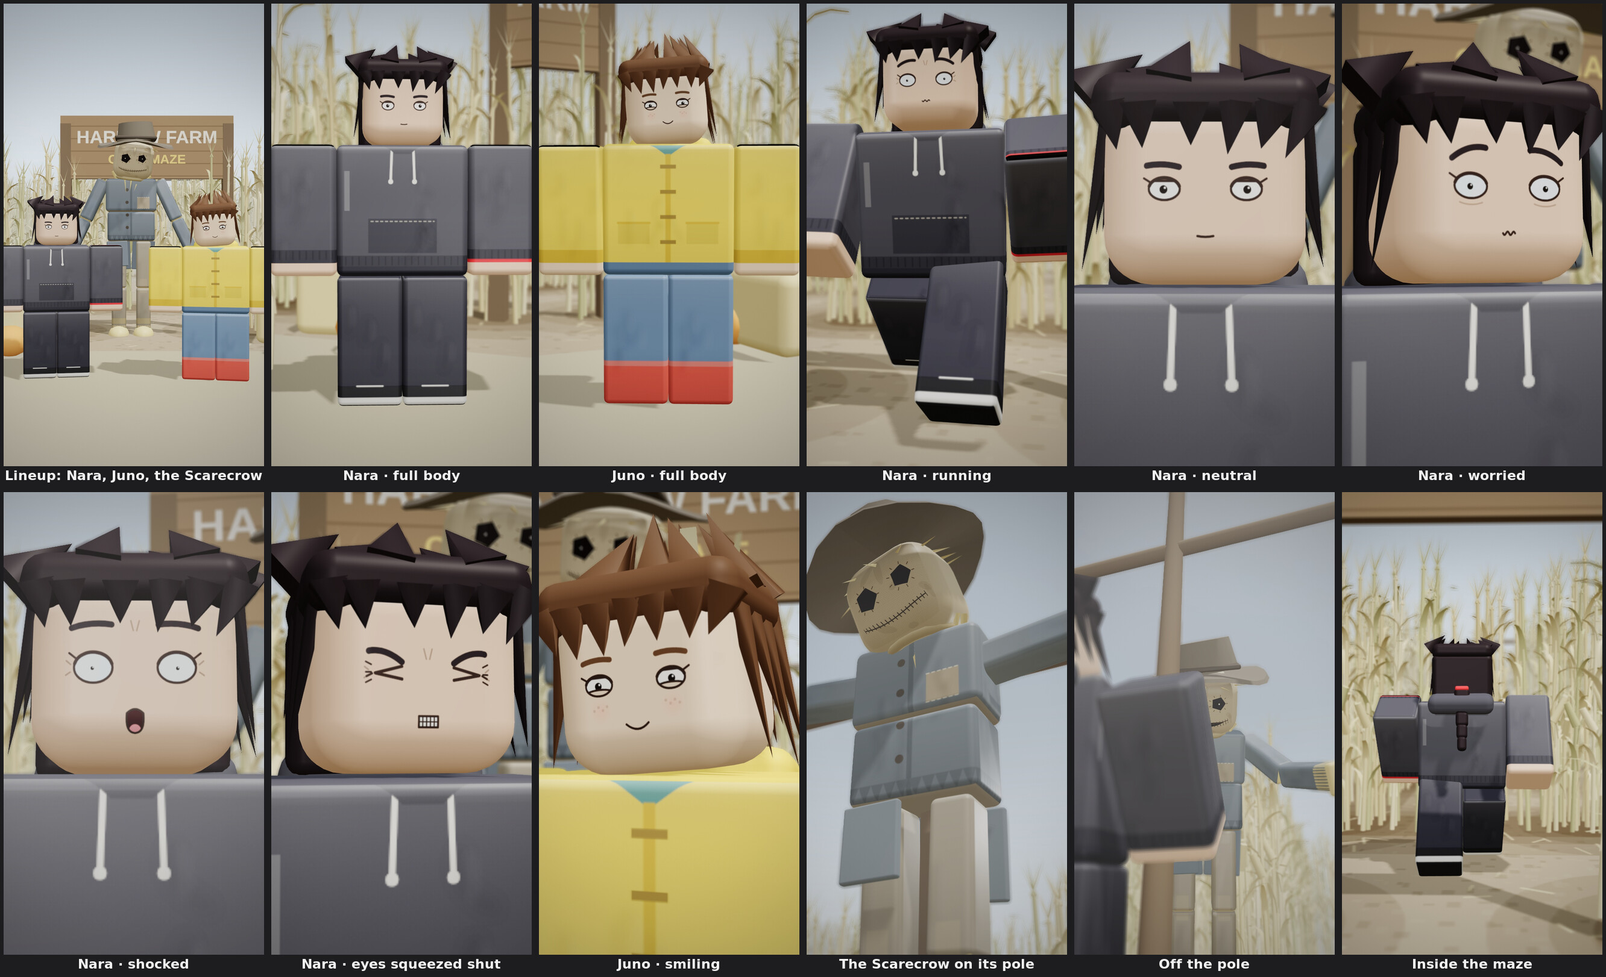
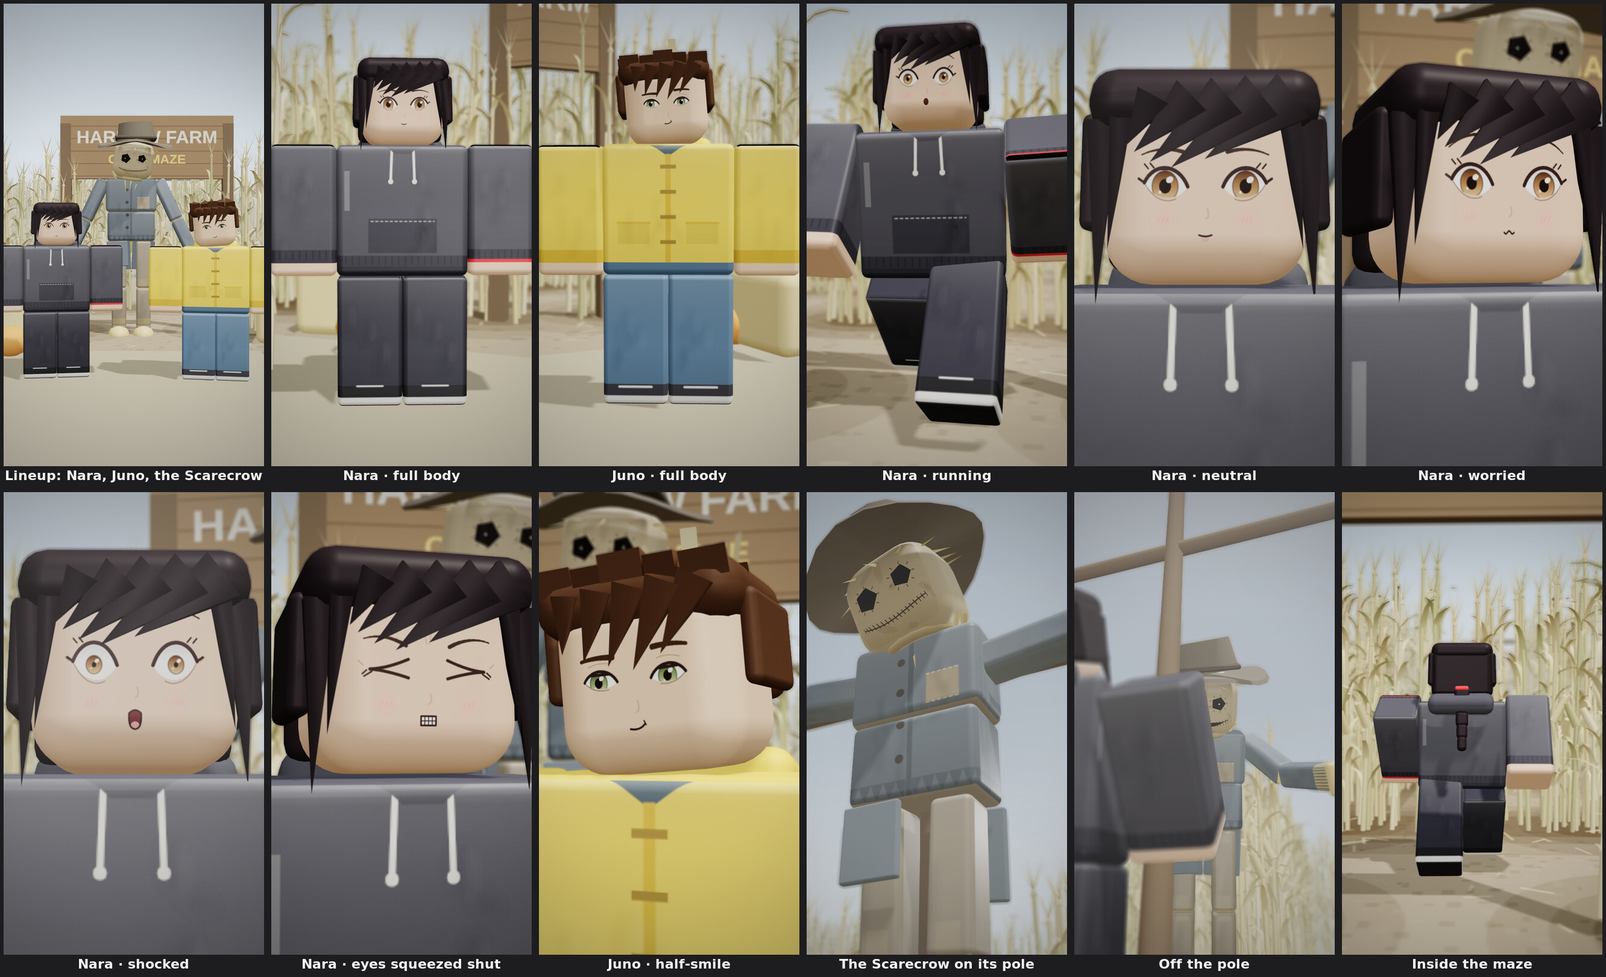
The Corn Maze: beautiful face for Nara, Juno is now a boy with a handsome face; new hairstyles
Claude-Session: https://claude.ai/code/session_01Uppwa9cCUuZ5j34nber2RV

diff --git a/midnight-sea/characters.js b/midnight-sea/characters.js
@@ -81,8 +81,8 @@
   function faceTexture(st, expr, blink, open, table) {
     const key = `${st.id}|${expr}|${blink ? 1 : 0}|${open ? 1 : 0}`;
     if (faceCache[key]) return faceCache[key];
-    const E = st.comic ? (COMIC[expr] || COMIC.neutral) : (table || EXPR)[expr] || EXPR.neutral;
-    const tex = RT.canvasTexture(FW, FH, (g) => st.draw ? st.draw(g, expr, blink, open) : st.comic ? drawComicFace(g, st, E, blink, open) : drawFace(g, st, E, blink, open));
+    const E = st.pretty ? (PRETTY[expr] || PRETTY.neutral) : st.comic ? (COMIC[expr] || COMIC.neutral) : (table || EXPR)[expr] || EXPR.neutral;
+    const tex = RT.canvasTexture(FW, FH, (g) => st.draw ? st.draw(g, expr, blink, open) : st.pretty ? drawPrettyFace(g, st, E, blink, open) : st.comic ? drawComicFace(g, st, E, blink, open) : drawFace(g, st, E, blink, open));
     return (faceCache[key] = tex);
   }
 
@@ -161,6 +161,127 @@
     sideEye:     { ew: 1.1, eh: 0.86, pupil: 0.7, lid: 0.12, brow: -10, browTilt: -0.3, mouth: 'wavy', mw: 30, look: [-18, 2], sclera: '#d9e9f6' },
     smirk:       { ew: 1.04, eh: 0.76, pupil: 0.95, lid: 0.4, lidTilt: 0.06, low: 0.1, brow: 4, browTilt: 0.1, browAsym: -16, mouth: 'smile', curve: 12, mw: 50 },
   };
+
+  // =================================================================================
+  // PRETTY FACES (faceStyle({ pretty: 'f' | 'm' })): attractive anime-style faces. 'f' (beautiful): big almond eyes,
+  // glossy irises with two highlights, a winged upper lash line and lashes, thin arched brows, a small nose, soft rose
+  // lips, light blush. 'm' (handsome): narrower sharper eyes, no lashes, thicker straighter brows, a confident mouth.
+  //  eh: eye height · iris: iris size · pupil · lid · lidTilt · low (smile squint) · brow (+ lower) · browTilt (+ angry,
+  //  − worried) · browAsym · closed: 'soft' | 'happy' | 'squeeze' · mouth: soft | smile | smirk | line | wavy | o | gasp | grit |
+  //  frown | cry · curve · mw · look [x, y] · tears · dull (lifeless irises) · creases
+  // =================================================================================
+  const PRETTY = {
+    neutral:    { eh: 1, iris: 1, lid: 0.06, mouth: 'soft', curve: 3, mw: 30 },
+    smiling:    { eh: 0.9, iris: 1, lid: 0.04, low: 0.32, brow: -4, mouth: 'smile', curve: 12, mw: 40 },
+    smirk:      { eh: 0.92, iris: 1, lid: 0.2, lidTilt: 0.06, low: 0.1, brow: 2, browAsym: -12, mouth: 'smirk', curve: 10, mw: 40, look: [-4, 0] },
+    determined: { eh: 0.88, iris: 1, lid: 0.26, lidTilt: 0.18, brow: 10, browTilt: 0.34, mouth: 'line', curve: -2, mw: 30 },
+    worried:    { eh: 1.04, iris: 0.92, lid: 0, brow: -12, browTilt: -0.4, mouth: 'wavy', mw: 26 },
+    scared:     { eh: 1.14, iris: 0.76, pupil: 0.8, lid: 0, brow: -18, browTilt: -0.36, mouth: 'o', mw: 24, creases: 1 },
+    shocked:    { eh: 1.24, iris: 0.6, pupil: 0.6, lid: 0, brow: -26, browTilt: -0.12, mouth: 'gasp', mw: 34, creases: 1 },
+    scream:     { eh: 1.26, iris: 0.56, pupil: 0.55, lid: 0, brow: -28, browTilt: -0.2, mouth: 'gasp', mw: 46, creases: 1 },
+    squeeze:    { closed: 'squeeze', brow: 10, browTilt: 0.34, mouth: 'grit', mw: 36, creases: 2 },
+    sad:        { eh: 0.94, iris: 1, lid: 0.24, lidTilt: -0.24, brow: -6, browTilt: -0.42, mouth: 'frown', curve: -9, mw: 28, look: [0, 5] },
+    crying:     { eh: 0.94, iris: 1, lid: 0.26, lidTilt: -0.26, brow: -8, browTilt: -0.46, mouth: 'cry', curve: -10, mw: 34, tears: 1, look: [0, 4] },
+    blank:      { eh: 1.04, iris: 0.9, lid: 0, mouth: 'line', curve: 0, mw: 22, dull: 1 },
+    taken:      { eh: 1.08, iris: 0.86, pupil: 0.3, lid: 0, brow: 2, mouth: 'line', curve: 0, mw: 22, dull: 1 },
+    sideEye:    { eh: 1.02, iris: 0.86, lid: 0.1, brow: -10, browTilt: -0.3, mouth: 'wavy', mw: 24, look: [-16, 2] },
+    unimpressed:{ eh: 0.86, iris: 0.95, lid: 0.45, brow: 6, mouth: 'line', curve: -1, mw: 22, look: [6, 4] },
+    smug:       { eh: 0.9, iris: 1, lid: 0.36, lidTilt: -0.06, low: 0.14, brow: 4, browAsym: -14, mouth: 'smirk', curve: 14, mw: 44 },
+  };
+  function drawPrettyFace(g, st, E, blink, open) {
+    const F = st.pretty === 'f', cx = FW / 2, ink = st.ink || '#1b1210', sz = st.eyeSize || 1;
+    g.lineJoin = 'round'; g.lineCap = 'round';
+    g.fillStyle = st.skin; g.fillRect(0, 0, FW, FH);
+    const ey = 226 + (st.eyeY || 0), sp = (F ? 94 : 92) * (st.eyeSpread || 1);
+    const rx = (F ? 52 : 46) * sz, ry = (F ? 38 : 27) * sz * (E.eh || 1);
+    const lid = RT.clamp((E.lid || 0) + (st.lidBias || 0), 0, 0.85), look = E.look || [0, 0];
+    // blush
+    if (st.blush) for (const s of [-1, 1]) {
+      const bx = cx + s * (sp + 6), by = ey + ry + 40, gr = g.createRadialGradient(bx, by, 2, bx, by, 38);
+      gr.addColorStop(0, 'rgba(255,120,130,0.34)'); gr.addColorStop(1, 'rgba(255,120,130,0)'); g.fillStyle = gr; g.fillRect(bx - 44, by - 30, 88, 60);
+      if (F) { g.strokeStyle = 'rgba(225,95,105,0.45)'; g.lineWidth = 2.5; for (let k = 0; k < 3; k++) { g.beginPath(); g.moveTo(bx - 14 + k * 10, by + 6); g.lineTo(bx - 8 + k * 10, by - 6); g.stroke(); } }
+    }
+    if (st.freckles) { g.fillStyle = RT.shade(st.skin, -0.18); for (const s of [-1, 1]) for (let k = 0; k < 3; k++) { g.beginPath(); g.arc(cx + s * (sp - 12 + k * 12), ey + ry + 30 + (k % 2) * 7, 2.6, 0, Math.PI * 2); g.fill(); } }
+    const lidPath = (x, s, up, dn, tilt) => {         // almond: inner corner → over the top → outer corner → under the bottom
+      const xi = x - s * rx, xo = x + s * rx, yi = ey + 5, yo = ey - (F ? 4 : 1) + tilt;
+      return { xi, xo, yi, yo, top() { g.moveTo(xi, yi); g.bezierCurveTo(x - s * rx * 0.55, ey - ry * up, x + s * rx * 0.55, ey - ry * up, xo, yo); },
+        bot() { g.moveTo(xo, yo); g.bezierCurveTo(x + s * rx * 0.5, ey + ry * dn, x - s * rx * 0.55, ey + ry * dn, xi, yi); } };
+    };
+    for (const s of [-1, 1]) {
+      const x = cx + s * sp, tilt = (E.lidTilt || 0) * -6 * 0;
+      const L = lidPath(x, s, 1.28, F ? 1.05 : 0.95, tilt);
+      if (blink || E.closed) {
+        g.strokeStyle = ink;
+        if (E.closed === 'squeeze') {
+          g.lineWidth = 7; g.beginPath(); g.moveTo(x - s * rx * 0.9, ey - ry * 0.5); g.quadraticCurveTo(x + s * rx * 0.1, ey + 2, x + s * rx * 0.85, ey + 4); g.stroke();
+          g.beginPath(); g.moveTo(x - s * rx * 0.9, ey + ry * 0.55); g.quadraticCurveTo(x + s * rx * 0.1, ey + 6, x + s * rx * 0.85, ey + 4); g.stroke();
+        } else if ((E.low || 0) > 0.2) { g.lineWidth = 7; g.beginPath(); g.moveTo(L.xi, ey + 8); g.quadraticCurveTo(x, ey - 20, L.xo, ey + 6); g.stroke(); }
+        else { g.lineWidth = F ? 8 : 7; g.beginPath(); g.moveTo(L.xi, ey + 4); g.quadraticCurveTo(x, ey + 18, L.xo, ey + 2); g.stroke(); }
+        if (F) { g.lineWidth = 4; for (const k of [0, 1]) { g.beginPath(); g.moveTo(L.xo - s * k * 12, ey + 6 + k * 3); g.lineTo(L.xo + s * (10 - k * 4), ey + 14 + k * 5); g.stroke(); } }
+      } else {
+        // the eye white, the iris (gradient), pupil, two highlights, the shadow of the upper lid
+        g.save(); g.beginPath(); L.top(); L.bot(); g.closePath(); g.clip();
+        g.fillStyle = '#fdfdfb'; g.fillRect(x - rx - 4, ey - ry * 1.5, rx * 2 + 8, ry * 3);
+        const ir = (F ? 34 : 26) * sz * (E.iris || 1), ix = x + look[0] + s * 2, iy = ey + 4 + look[1];
+        const gi = g.createLinearGradient(0, iy - ir, 0, iy + ir);
+        gi.addColorStop(0, E.dull ? '#4a4040' : st.irisDark || RT.shade(st.iris, -0.55)); gi.addColorStop(0.55, E.dull ? '#5e5656' : st.iris); gi.addColorStop(1, E.dull ? '#7a7272' : st.irisLight || RT.shade(st.iris, 0.35));
+        g.fillStyle = gi; g.beginPath(); g.ellipse(ix, iy, ir * 0.92, ir, 0, 0, Math.PI * 2); g.fill();
+        g.strokeStyle = 'rgba(20,10,8,0.65)'; g.lineWidth = 3; g.stroke();
+        g.fillStyle = '#0f0a09'; g.beginPath(); g.ellipse(ix, iy, ir * 0.42 * (E.pupil || 1), ir * 0.48 * (E.pupil || 1), 0, 0, Math.PI * 2); g.fill();
+        if (!E.dull) { g.fillStyle = '#ffffff'; g.beginPath(); g.ellipse(ix + ir * 0.32, iy - ir * 0.42, ir * 0.26, ir * 0.2, -0.5, 0, Math.PI * 2); g.fill();
+          g.globalAlpha = 0.8; g.beginPath(); g.arc(ix - ir * 0.36, iy + ir * 0.4, ir * 0.1, 0, Math.PI * 2); g.fill(); g.globalAlpha = 1; }
+        const sh = g.createLinearGradient(0, ey - ry * 1.1, 0, ey - ry * 0.1); sh.addColorStop(0, 'rgba(40,20,20,0.35)'); sh.addColorStop(1, 'rgba(40,20,20,0)');
+        g.fillStyle = sh; g.fillRect(x - rx - 4, ey - ry * 1.4, rx * 2 + 8, ry * 1.3);
+        if (lid > 0.02) { const yl = ey - ry * 1.05 + ry * 2.1 * lid, t = (E.lidTilt || 0) * ry;
+          g.fillStyle = st.skin; g.beginPath(); g.moveTo(x - rx * 1.4, ey - ry * 2); g.lineTo(x + rx * 1.4, ey - ry * 2); g.lineTo(x + s * rx * 1.4, yl - t); g.lineTo(x - s * rx * 1.4, yl + t); g.closePath(); g.fill();
+          g.strokeStyle = ink; g.lineWidth = F ? 8 : 7; g.beginPath(); g.moveTo(x - s * rx * 1.1, yl + t); g.lineTo(x + s * rx * 1.1, yl - t); g.stroke(); }
+        if ((E.low || 0) > 0.02) { const cy = ey + ry * (2.1 - 2.2 * E.low); g.fillStyle = st.skin; g.beginPath(); g.ellipse(x, cy, rx * 1.6, ry * 1.1, 0, 0, Math.PI * 2); g.fill(); }
+        g.restore();
+        // lash lines: a heavy upper line (winged for 'f'), a light lower line
+        g.strokeStyle = ink; g.lineWidth = F ? 9 : 7.5; g.beginPath(); L.top(); g.stroke();
+        if (F) { g.lineWidth = 6; g.beginPath(); g.moveTo(L.xo, L.yo); g.lineTo(L.xo + s * 14, L.yo - 9); g.stroke();
+          g.lineWidth = 4; for (const k of [0.35, 0.62]) { const px = x + s * rx * (0.2 + k), py = ey - ry * 1.02 + k * 6; g.beginPath(); g.moveTo(px, py); g.lineTo(px + s * 9, py - 10); g.stroke(); } }
+        g.globalAlpha = 0.55; g.lineWidth = 3; g.beginPath(); g.moveTo(L.xo, L.yo); g.bezierCurveTo(x + s * rx * 0.5, ey + ry * (F ? 1.05 : 0.95), x - s * rx * 0.1, ey + ry * (F ? 1.05 : 0.95), x - s * rx * 0.45, ey + ry * 0.85); g.stroke(); g.globalAlpha = 1;
+        if (!F) { g.globalAlpha = 0.35; g.lineWidth = 3; g.beginPath(); g.moveTo(x - s * rx * 0.6, ey - ry * 1.55); g.quadraticCurveTo(x, ey - ry * 1.85, x + s * rx * 0.7, ey - ry * 1.45); g.stroke(); g.globalAlpha = 1; }   // double-lid crease
+      }
+      if (E.tears) { g.fillStyle = 'rgba(140,205,255,0.85)'; g.beginPath(); g.ellipse(x + s * rx * 0.25, ey + ry + 26, 7, 13, 0, 0, Math.PI * 2); g.fill(); }
+      if (E.creases) { g.strokeStyle = 'rgba(40,25,20,0.4)'; g.lineWidth = 3; g.beginPath(); g.moveTo(x + s * rx * 1.15, ey - 4); g.lineTo(x + s * rx * 1.38, ey - 14); g.stroke(); }
+      // brows: 'f' thin tapered arch, 'm' thicker and straighter
+      const by = ey - ry - (F ? 34 : 30) + (E.brow || 0) + (s === 1 ? E.browAsym || 0 : 0) + (st.browY || 0);
+      const tiltB = (E.browTilt || 0) * 40, xi = x - s * rx * 0.8, xo = x + s * rx * 1.12, yi = by + tiltB, yo = by - tiltB * 0.35 + (F ? 6 : 2), mx = (xi + xo) / 2, my = Math.min(yi, yo) - (F ? 14 : 6);
+      const W0 = F ? 9 : 14;
+      g.strokeStyle = st.brow;
+      for (let k = 0; k < 8; k++) {
+        const a = k / 8, b = (k + 1) / 8, P = (u) => [(1 - u) * (1 - u) * xi + 2 * (1 - u) * u * mx + u * u * xo, (1 - u) * (1 - u) * yi + 2 * (1 - u) * u * my + u * u * yo];
+        const [x0, y0] = P(a), [x1, y1] = P(b); g.lineWidth = W0 * (1 - a * (F ? 0.7 : 0.4)); g.beginPath(); g.moveTo(x0, y0); g.lineTo(x1, y1); g.stroke();
+      }
+    }
+    if ((E.creases || 0) >= 1) { g.strokeStyle = 'rgba(40,25,20,0.35)'; g.lineWidth = 3; g.beginPath(); g.moveTo(cx - 8, ey - ry - 46 + (E.brow || 0)); g.lineTo(cx - 3, ey - ry - 26 + (E.brow || 0)); g.moveTo(cx + 8, ey - ry - 46 + (E.brow || 0)); g.lineTo(cx + 3, ey - ry - 26 + (E.brow || 0)); g.stroke(); }
+    // nose: a small soft shadow stroke
+    g.strokeStyle = 'rgba(120,60,45,0.42)'; g.lineWidth = 4; g.beginPath(); g.moveTo(cx + 5, ey + 54); g.quadraticCurveTo(cx + 11, ey + (F ? 72 : 76), cx + 1, ey + (F ? 76 : 80)); g.stroke();
+    // mouth
+    const my = (F ? 338 : 342) + (st.mouthY || 0), mw = (E.mw || 30) * (st.mouthW || 1), x0 = cx - mw / 2, x1 = cx + mw / 2, c = E.curve || 0;
+    const lip = st.lip || (F ? '#d9707a' : RT.shade(st.skin, -0.25));
+    const line = (fn, w = 4.5) => { g.strokeStyle = ink; g.lineWidth = w; g.beginPath(); fn(); g.stroke(); };
+    const fill = (fn, tongue) => { g.fillStyle = '#3a1416'; g.beginPath(); fn(); g.fill(); g.save(); g.beginPath(); fn(); g.clip(); g.fillStyle = '#fbf7f0'; g.fillRect(cx - mw, my - 30, mw * 2, 9); if (tongue) { g.fillStyle = '#d86a76'; g.beginPath(); g.ellipse(cx, tongue, mw * 0.32, 11, 0, 0, Math.PI * 2); g.fill(); } g.restore(); g.strokeStyle = ink; g.lineWidth = 4; g.beginPath(); fn(); g.stroke(); };
+    const m = open && ['soft', 'line', 'wavy', 'frown', 'smirk'].includes(E.mouth) ? 'talk' : E.mouth;
+    switch (m) {
+      case 'soft':
+        if (F) { g.fillStyle = lip; g.globalAlpha = 0.75; g.beginPath(); g.ellipse(cx, my + 9, mw * 0.32, 6, 0, 0, Math.PI * 2); g.fill(); g.globalAlpha = 1; }
+        line(() => { g.moveTo(x0, my); g.quadraticCurveTo(cx, my + 2 * c, x1, my); }); break;
+      case 'smile': line(() => { g.moveTo(x0, my - 4); g.quadraticCurveTo(cx, my + c, x1, my - 4); }, 5); if (F) { g.fillStyle = lip; g.globalAlpha = 0.6; g.beginPath(); g.ellipse(cx, my + c * 0.5 + 6, mw * 0.25, 4, 0, 0, Math.PI * 2); g.fill(); g.globalAlpha = 1; } break;
+      case 'smirk': line(() => { g.moveTo(x0, my + 2); g.quadraticCurveTo(cx + 4, my + 8, x1, my - c * 0.7); }, 5); line(() => { g.moveTo(x1 - 2, my - c * 0.7 - 8); g.lineTo(x1 + 3, my - c * 0.7 + 2); }, 3.5); break;
+      case 'wavy': line(() => { for (let i = 0; i <= 16; i++) { const x = x0 + (mw * i) / 16, y = my + Math.sin((i / 16) * Math.PI * 3) * 3.5; i ? g.lineTo(x, y) : g.moveTo(x, y); } }, 4); break;
+      case 'o': fill(() => g.ellipse(cx, my + 6, 11, 15, 0, 0, Math.PI * 2)); break;
+      case 'gasp': fill(() => { g.moveTo(cx - mw * 0.42, my - 2); g.quadraticCurveTo(cx, my - 16, cx + mw * 0.42, my - 2); g.quadraticCurveTo(cx + mw * 0.48, my + 32, cx, my + 34); g.quadraticCurveTo(cx - mw * 0.48, my + 32, cx - mw * 0.42, my - 2); }, my + 27); break;
+      case 'grit': { g.fillStyle = '#fbf7f0'; g.beginPath(); g.rect(x0, my - 10, mw, 20); g.fill(); g.strokeStyle = ink; g.lineWidth = 4; g.stroke(); g.lineWidth = 2.5; g.beginPath(); g.moveTo(x0, my); g.lineTo(x1, my); for (let k = 1; k < 4; k++) { g.moveTo(x0 + (mw * k) / 4, my - 10); g.lineTo(x0 + (mw * k) / 4, my + 10); } g.stroke(); break; }
+      case 'frown': line(() => { g.moveTo(x0, my + 4); g.quadraticCurveTo(cx, my + 2 * c, x1, my + 4); }); break;
+      case 'cry': fill(() => { g.moveTo(x0, my + 10); g.quadraticCurveTo(cx, my - 16, x1, my + 10); g.quadraticCurveTo(cx, my + 22, x0, my + 10); }); break;
+      case 'talk': fill(() => g.ellipse(cx, my + 5, mw * 0.36, 11, 0, 0, Math.PI * 2), my + 12); break;
+      default: line(() => { g.moveTo(x0, my); g.quadraticCurveTo(cx, my + 2 * c, x1, my); });
+    }
+  }
+
   function drawComicFace(g, st, E, blink, open) {
     const cx = FW / 2, ink = st.ink || '#16110f', sz = st.eyeSize || 1;
     g.lineJoin = 'round'; g.lineCap = 'round';
@@ -1156,7 +1277,7 @@
   RT.characters = {
     rhea, pip, juno, dax, haskin, vire, guard, citizen, tribute, crowd,
     cast: ['rhea', 'pip', 'juno', 'dax', 'haskin', 'vire', 'guard'],
-    build: buildAvatar, faceStyle, faceTexture, DIMS, R6, EXPR, CROWD_EXPR, COMIC,
+    build: buildAvatar, faceStyle, faceTexture, DIMS, R6, EXPR, CROWD_EXPR, COMIC, PRETTY,
     parts: { H, Cone, Ball, Shard, jaggedHair, cloth, merged, bands, genericClothes, hairStyle, outer: typeof outer === 'function' ? outer : null, SKINS },
   };
 })();

diff --git a/midnight-sea/cast.js b/midnight-sea/cast.js
@@ -7,7 +7,7 @@
 //   RT.cast.bram() · RT.cast.odell() · RT.cast.pike() · RT.cast.sleeper(seed)   // the sleepwalkers (eyes closed: rig.setEyes('closed'))
 //   RT.cast.phone()                              // Nara's phone (cracked corner), screen: phone.userData.setScreen(text, rec)
 //   RT.cast.nara({ style: 'ref' })               // the same Nara drawn in the "In this town" reference style (comic face, jagged hair, shaded cloth)
-//   RT.cast.juno()                               // THE CORN MAZE: Nara's best friend (yellow raincoat, messy brown bob); rig.props.leaves = corn leaves in her hair
+//   RT.cast.juno()                               // THE CORN MAZE: Nara's best friend, a boy (yellow raincoat, messy swept-up brown hair); rig.props.leaves = corn leaves in his hair
 //   RT.cast.scarecrow()                          // THE CORN MAZE: the Caller (burlap sack head, grey coat, straw, long limbs). Faces: 'neutral' (still) | 'awake'; mouth open = talking
 // =====================================================================================
 (function () {
@@ -21,7 +21,7 @@
     if (o.style === 'ref') COL.hoodie = '#2c2c33';
     const Hd = RT.shade(COL.hoodie, -0.25), Hl = RT.shade(COL.hoodie, 0.14);
     const ref = o.style === 'ref', shade = (g, f, c, seed) => { if (ref && f !== 'top' && f !== 'bottom') P.cloth(g, c, { seed }); };
-    const face = ref ? C.faceStyle({ comic: true, skin: COL.skin, brow: COL.hair, browW: 14, lashes: true, ink: '#1a1210' }) : o.shadow
+    const face = ref ? C.faceStyle({ pretty: 'f', skin: COL.skin, iris: '#7a4a26', irisDark: '#2a150b', irisLight: '#c08a52', brow: '#1d1412', blush: true, lip: '#d2707a', ink: '#1a1110' }) : o.shadow
       ? C.faceStyle({ skin: COL.skin, sclera: '#070405', iris: '#000000', ring: '#ff2618', noShine: true, brow: COL.hair, browW: 12, lashes: true, bags: true })
       : C.faceStyle({ skin: COL.skin, iris: '#3a2214', brow: COL.hair, browW: 12, lashes: true, bags: true, lidBias: 0.12 });
     return C.build({
@@ -61,7 +61,15 @@
       },
       build(rig, d) {
         const hm = RT.plastic(COL.hair, { roughness: 0.5 });
-        if (ref) rig.headTop.add(merged(P.jaggedHair({ seed: 4, crown: 14, lift: 0.08, len: 0.72, frontOnly: true, fringe: 6, fringeLen: 0.62, sides: 3, sideLen: 1.5, back: 0, backPanel: 1.05 }), hm));
+        // a strand that starts at the hairline point (bx, by) and falls in direction a (radians from straight down; + = toward her left/+x)
+        const strand = (bx, by, bz, a, L, w, d = 0.12) => P.Shard(w, L, d, bx + Math.sin(a) * L / 2, by - Math.cos(a) * L / 2, bz, 0, 0, Math.PI + a);
+        if (ref) {   // smooth cap, side-swept bangs, long locks framing the face (the ponytail is added below)
+          const hp = [H(1.38, 0.4, 1.32, 0, 0.5, -0.02, 0, 0, 0, 0.18), H(1.38, 1.05, 0.32, 0, 0.0, -0.5, 0, 0, 0, 0.14),
+            H(0.14, 0.72, 1.0, 0.69, 0.1, -0.12, 0, 0, 0.03, 0.06), H(0.14, 0.72, 1.0, -0.69, 0.1, -0.12, 0, 0, -0.03, 0.06)];
+          for (const sx of [-1, 1]) { hp.push(strand(sx * 0.6, 0.38, 0.5, sx * 0.04, 1.08, 0.26, 0.16)); hp.push(strand(sx * 0.49, 0.4, 0.56, sx * 0.1, 0.78, 0.18, 0.14)); }
+          [[0.5, -0.95, 0.62, 0.44], [0.32, -0.9, 0.66, 0.42], [0.12, -0.86, 0.58, 0.38], [-0.08, -0.8, 0.46, 0.34], [-0.3, -0.5, 0.32, 0.28]].forEach(([x, a, L, w]) => hp.push(strand(x, 0.5, 0.63, a, L, w)));
+          rig.headTop.add(merged(hp, hm));
+        }
         else rig.headTop.add(merged([
           H(1.38, 0.44, 1.32, 0, 0.5, -0.03, 0, 0, 0, 0.2),
           H(1.38, 1.05, 0.34, 0, 0.0, -0.47, 0, 0, 0, 0.14),
@@ -202,15 +210,16 @@
   }
 
 
-  // ---------- THE CORN MAZE: JUNO (Nara's best friend, 15) ----------
-  // yellow raincoat (reads in the fog), messy brown bob with a yellow clip, jeans, red rain boots, freckles. Calls Nara "Vale".
+  // ---------- THE CORN MAZE: JUNO (Nara's best friend, a boy, 15) ----------
+  // yellow raincoat (reads in the fog) over a dark tee, messy swept-up brown hair, jeans, dark sneakers. Handsome face
+  // (hazel eyes, confident half-smile). Calls Nara "Vale".
   function juno(o = {}) {
-    const COL = { skin: '#e2b48d', hair: '#3a2417', coat: '#efbd2b', trim: '#c9921a', jeans: '#3d5a80', boots: '#b3312a', clip: '#ffd84a', tee: '#2f6f6a' };
+    const COL = { skin: '#d9a67f', hair: '#2e1c12', coat: '#efbd2b', trim: '#c9921a', jeans: '#34506f', boots: '#26262b', tee: '#2b3a44' };
     const sh = (g, f, c, seed) => { if (f !== 'top' && f !== 'bottom') P.cloth(g, c, { seed }); };
     return C.build({
-      name: 'Juno', r6: true, skin: COL.skin, shoes: COL.boots, seed: 31, expression: o.expression || 'smiling',
+      name: 'Juno', r6: true, skin: COL.skin, shoes: COL.boots, seed: 31, expression: o.expression || 'smirk',
       dims: { uw: 2.06, ud: 1.04, lw: 1.98, ld: 1.0, aw: 0.78, ad: 0.8 },          // the raincoat is roomy
-      face: C.faceStyle({ comic: true, skin: COL.skin, brow: COL.hair, browW: 13, lashes: true, freckles: true, blush: true, ink: '#1a1210' }),
+      face: C.faceStyle({ pretty: 'm', skin: COL.skin, iris: '#5f7a3e', irisDark: '#1e2c14', irisLight: '#9fba78', brow: '#22150d', lip: '#b77a66', ink: '#181010' }),
       clothes: {
         torso(g, f, c) {
           if (f === 'top' || f === 'bottom') return D.rect(g, c, 0, 0, 1, 1, f === 'top' ? COL.coat : COL.jeans);
@@ -231,14 +240,20 @@
         },
         leg(g, f, c) {
           if (f === 'top' || f === 'bottom') return D.rect(g, c, 0, 0, 1, 1, f === 'top' ? COL.jeans : COL.boots);
-          bands(g, c, [[0.66, COL.jeans], [0.7, RT.shade(COL.boots, 0.15)], [1, COL.boots]]);    // tall red rain boots
+          bands(g, c, [[0.84, COL.jeans], [0.93, COL.boots], [1, '#ecebe6']]); D.line(g, c, 0.25, 0.86, 0.75, 0.86, '#ecebe6', 3);   // dark sneakers, white soles
           sh(g, f, c, 13);
         },
       },
       build(rig, d) {
         const hm = RT.plastic(COL.hair, { roughness: 0.55 });
-        rig.headTop.add(merged(P.jaggedHair({ seed: 11, crown: 12, lift: 0.4, len: 1.05, fringe: 7, fringeLen: 0.6, sides: 4, sideLen: 1.7, back: 7, backLen: 1.45 }), hm));
-        rig.headTop.add(merged([H(0.32, 0.1, 0.12, 0.42, 0.48, 0.5, 0, 0, -0.5, 0.04)], RT.plastic(COL.clip)));   // hair clip
+        {   // messy hair with volume on top (layers brushed back), bangs falling over the forehead swept to one side, short sides
+          const Sh = P.Shard, r = RT.rng(19), hp = [H(1.38, 0.42, 1.32, 0, 0.5, -0.02, 0, 0, 0, 0.2), H(1.36, 0.7, 0.3, 0, 0.2, -0.5, 0, 0, 0, 0.12), H(0.12, 0.6, 0.95, 0.68, 0.2, -0.1), H(0.12, 0.6, 0.95, -0.68, 0.2, -0.1)];
+          for (let k = 0; k < 10; k++) { const x = -0.5 + (k % 5) * 0.25 + (r() - 0.5) * 0.08, z = 0.32 - Math.floor(k / 5) * 0.45; hp.push(Sh(0.4, 0.6 + r() * 0.15, 0.24, x, 0.72, z, -1.3 + (r() - 0.5) * 0.3, 0, (r() - 0.5) * 0.4)); }
+          const strand = (bx, by, bz, a, L, w, d = 0.13) => Sh(w, L, d, bx + Math.sin(a) * L / 2, by - Math.cos(a) * L / 2, bz, 0, 0, Math.PI + a);
+          [[0.46, -0.55, 0.5, 0.32], [0.26, -0.45, 0.56, 0.32], [0.04, -0.38, 0.5, 0.3], [-0.18, -0.3, 0.44, 0.28], [-0.4, -0.15, 0.36, 0.24]].forEach(([x, a, L, w]) => hp.push(strand(x, 0.54, 0.63, a, L, w)));
+          for (const sx of [-1, 1]) hp.push(strand(sx * 0.64, 0.5, 0.2, sx * 0.15, 0.5, 0.14, 0.4));
+          rig.headTop.add(merged(hp, hm));
+        }
         const hood = merged([H(1.4, 0.4, 0.6, 0, 0, 0, -0.25, 0, 0, 0.18)], RT.plastic(COL.coat, { roughness: 0.55 }));
         hood.position.set(0, d.uh - 0.05, -d.ud / 2 - 0.18); rig.waist.add(hood);
         // corn leaves caught in her hair (after the maze pushes her out)

diff --git a/midnight-sea/episodes/maze-look.html b/midnight-sea/episodes/maze-look.html
@@ -69,7 +69,7 @@ Stills:  node midnight-sea/tools/render.js midnight-maze-look --stills
     for (const c of [nara, juno, crow]) { c.visible = true; c.rig.setEyes(null); c.rig.setMouth(false); }
     // lineup / close-ups: standing at the entrance
     nara.position.set(LX - 1.3, 0, LZ); nara.rotation.set(0, 0.12, 0); A.apply(nara, A.pose('idle', t)); nara.rig.setFace(s.face || 'neutral');
-    juno.position.set(LX + 0.85, 0, LZ + 0.1); juno.rotation.set(0, -0.15, 0); A.apply(juno, Object.assign(A.pose('idle', t + 1), { hz: 0.08 })); juno.rig.setFace('smiling');
+    juno.position.set(LX + 0.85, 0, LZ + 0.1); juno.rotation.set(0, -0.15, 0); A.apply(juno, Object.assign(A.pose('idle', t + 1), { hz: 0.08 })); juno.rig.setFace('smirk');
     crow.position.set(LX - 0.3, 0, LZ - 3.2); crow.rotation.set(0, 0, 0); A.apply(crow, { hx: 0.18, hz: -0.12, aLf: 0.1, aRf: 0.1, aLo: 0.25, aRo: 0.25 }); crow.rig.setFace('awake');
     if (s.full === 'nara') { nara.rotation.set(0, 0.45, 0); A.apply(nara, A.pose('idle', t)); juno.visible = false; crow.visible = false; }
     if (s.full === 'juno') { juno.rotation.set(0, -0.45, 0); nara.visible = false; crow.visible = false; }
